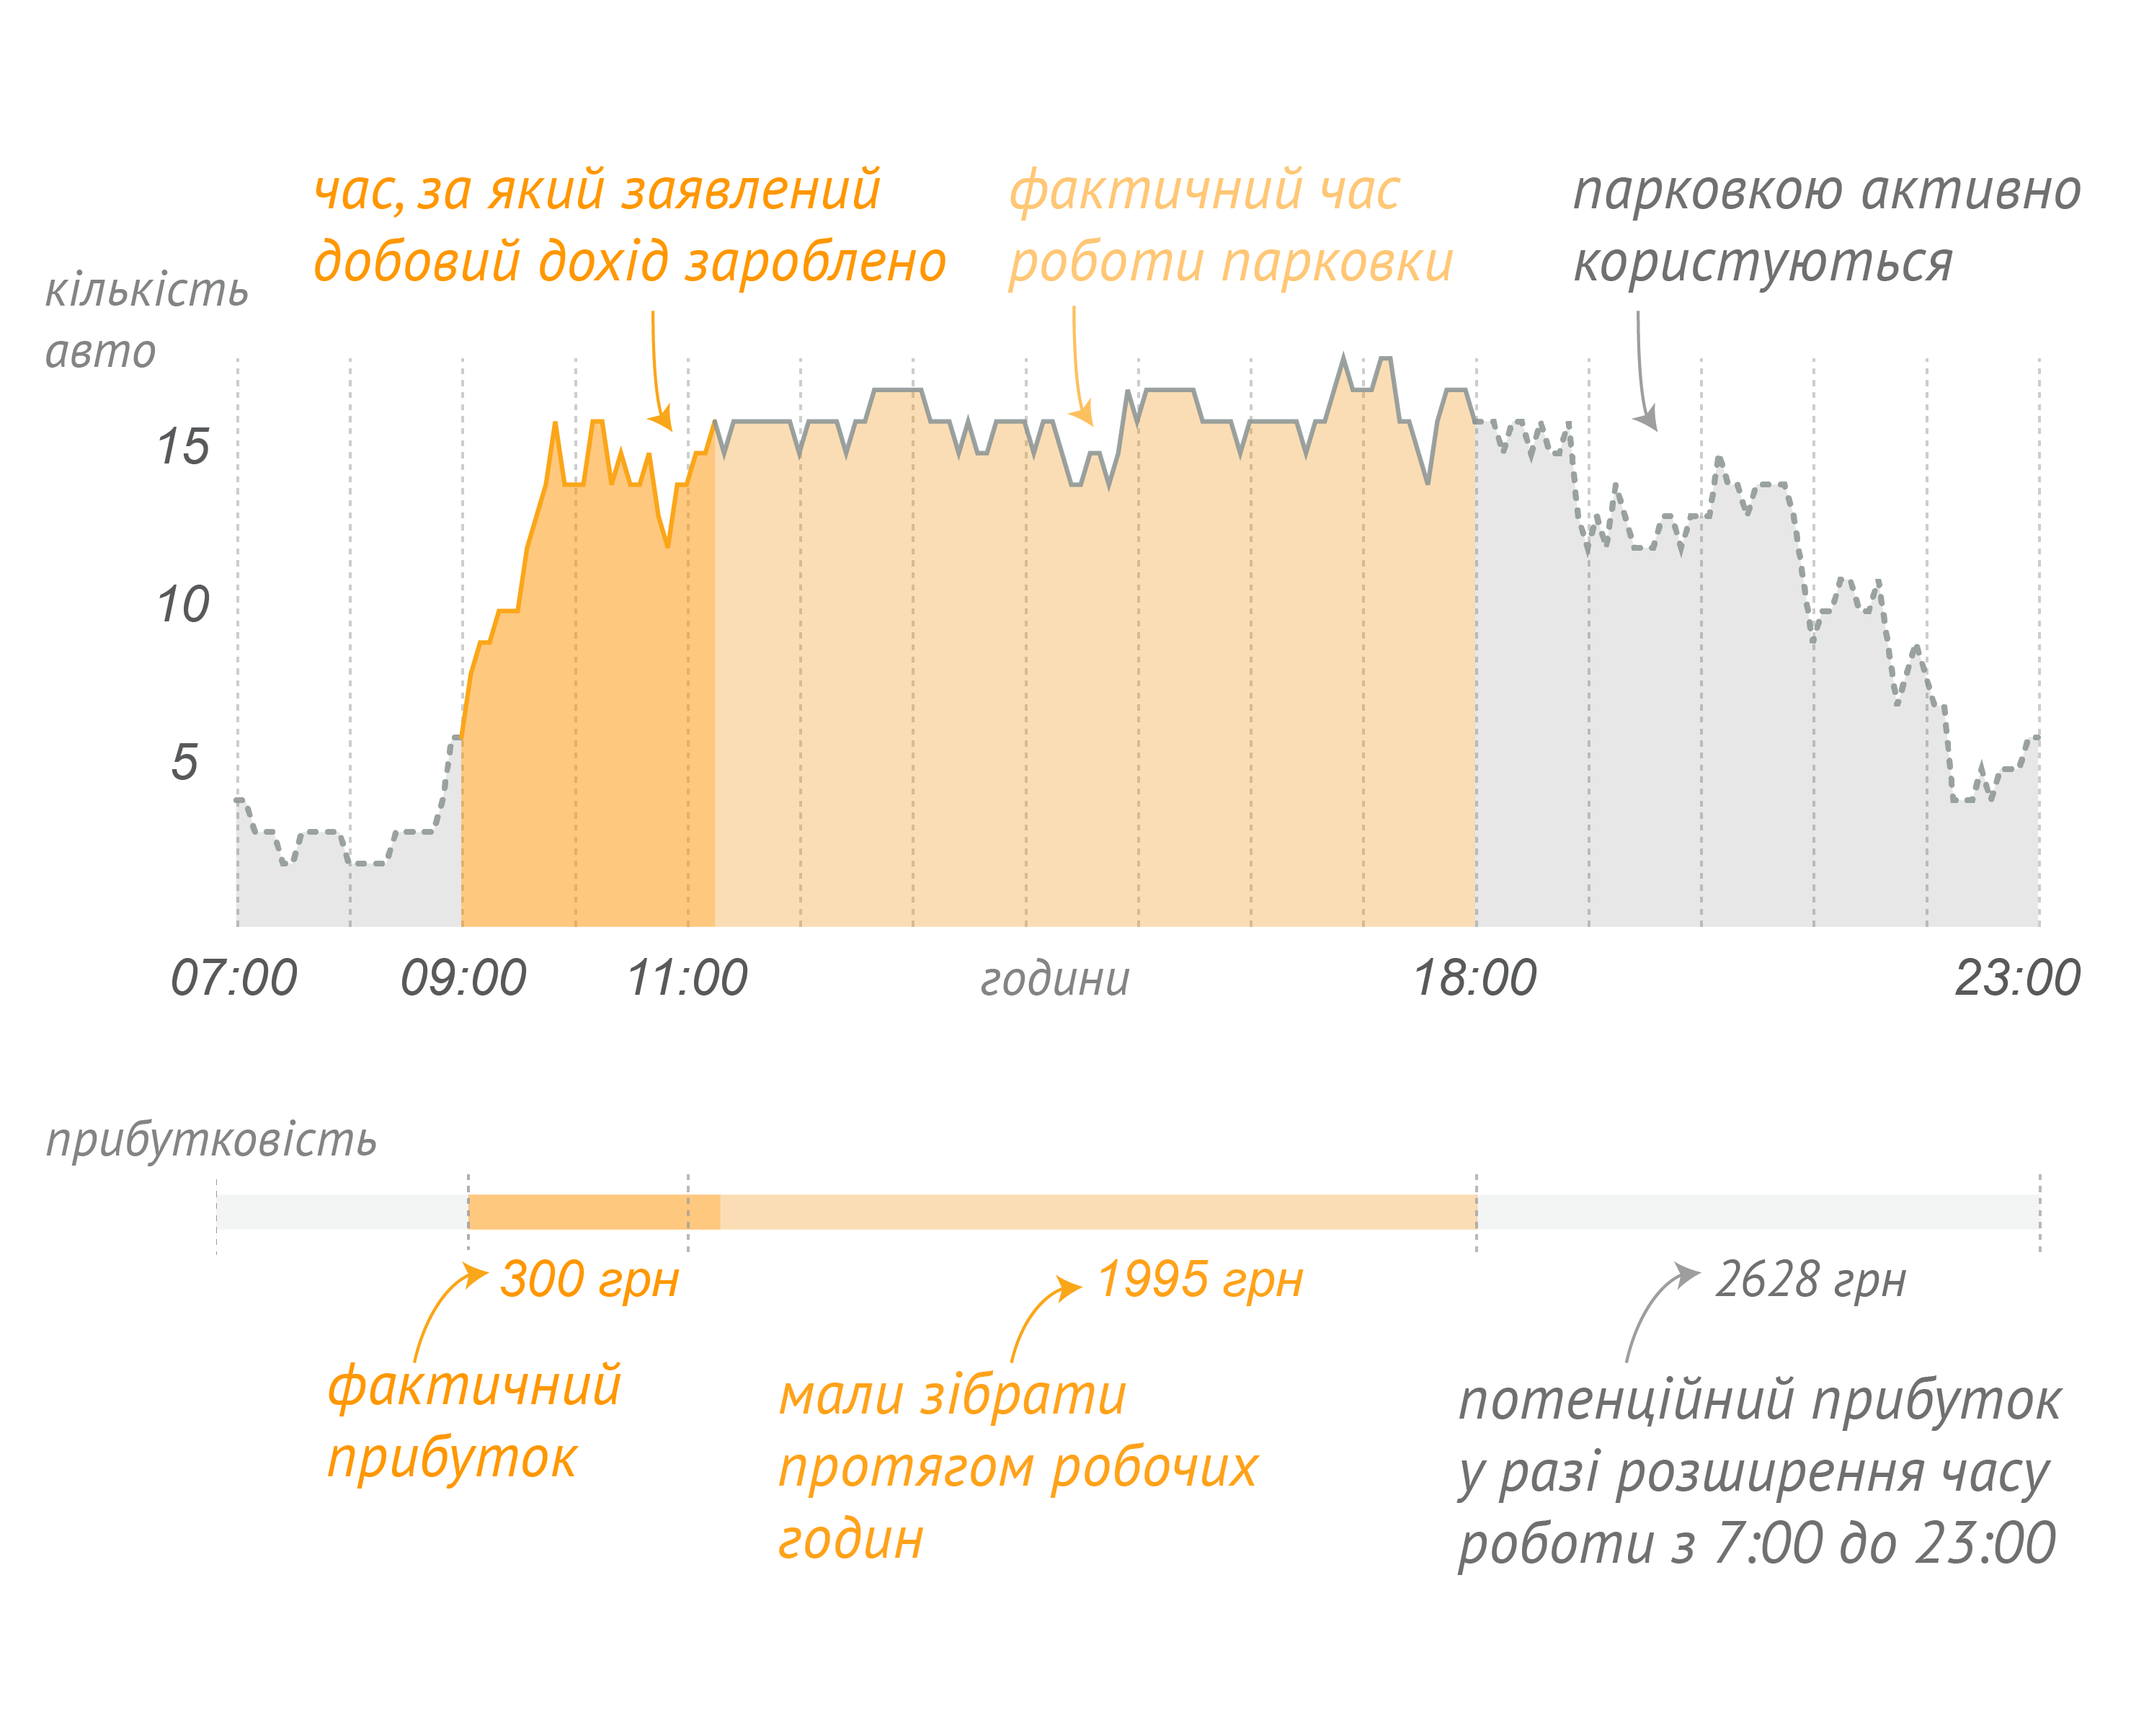
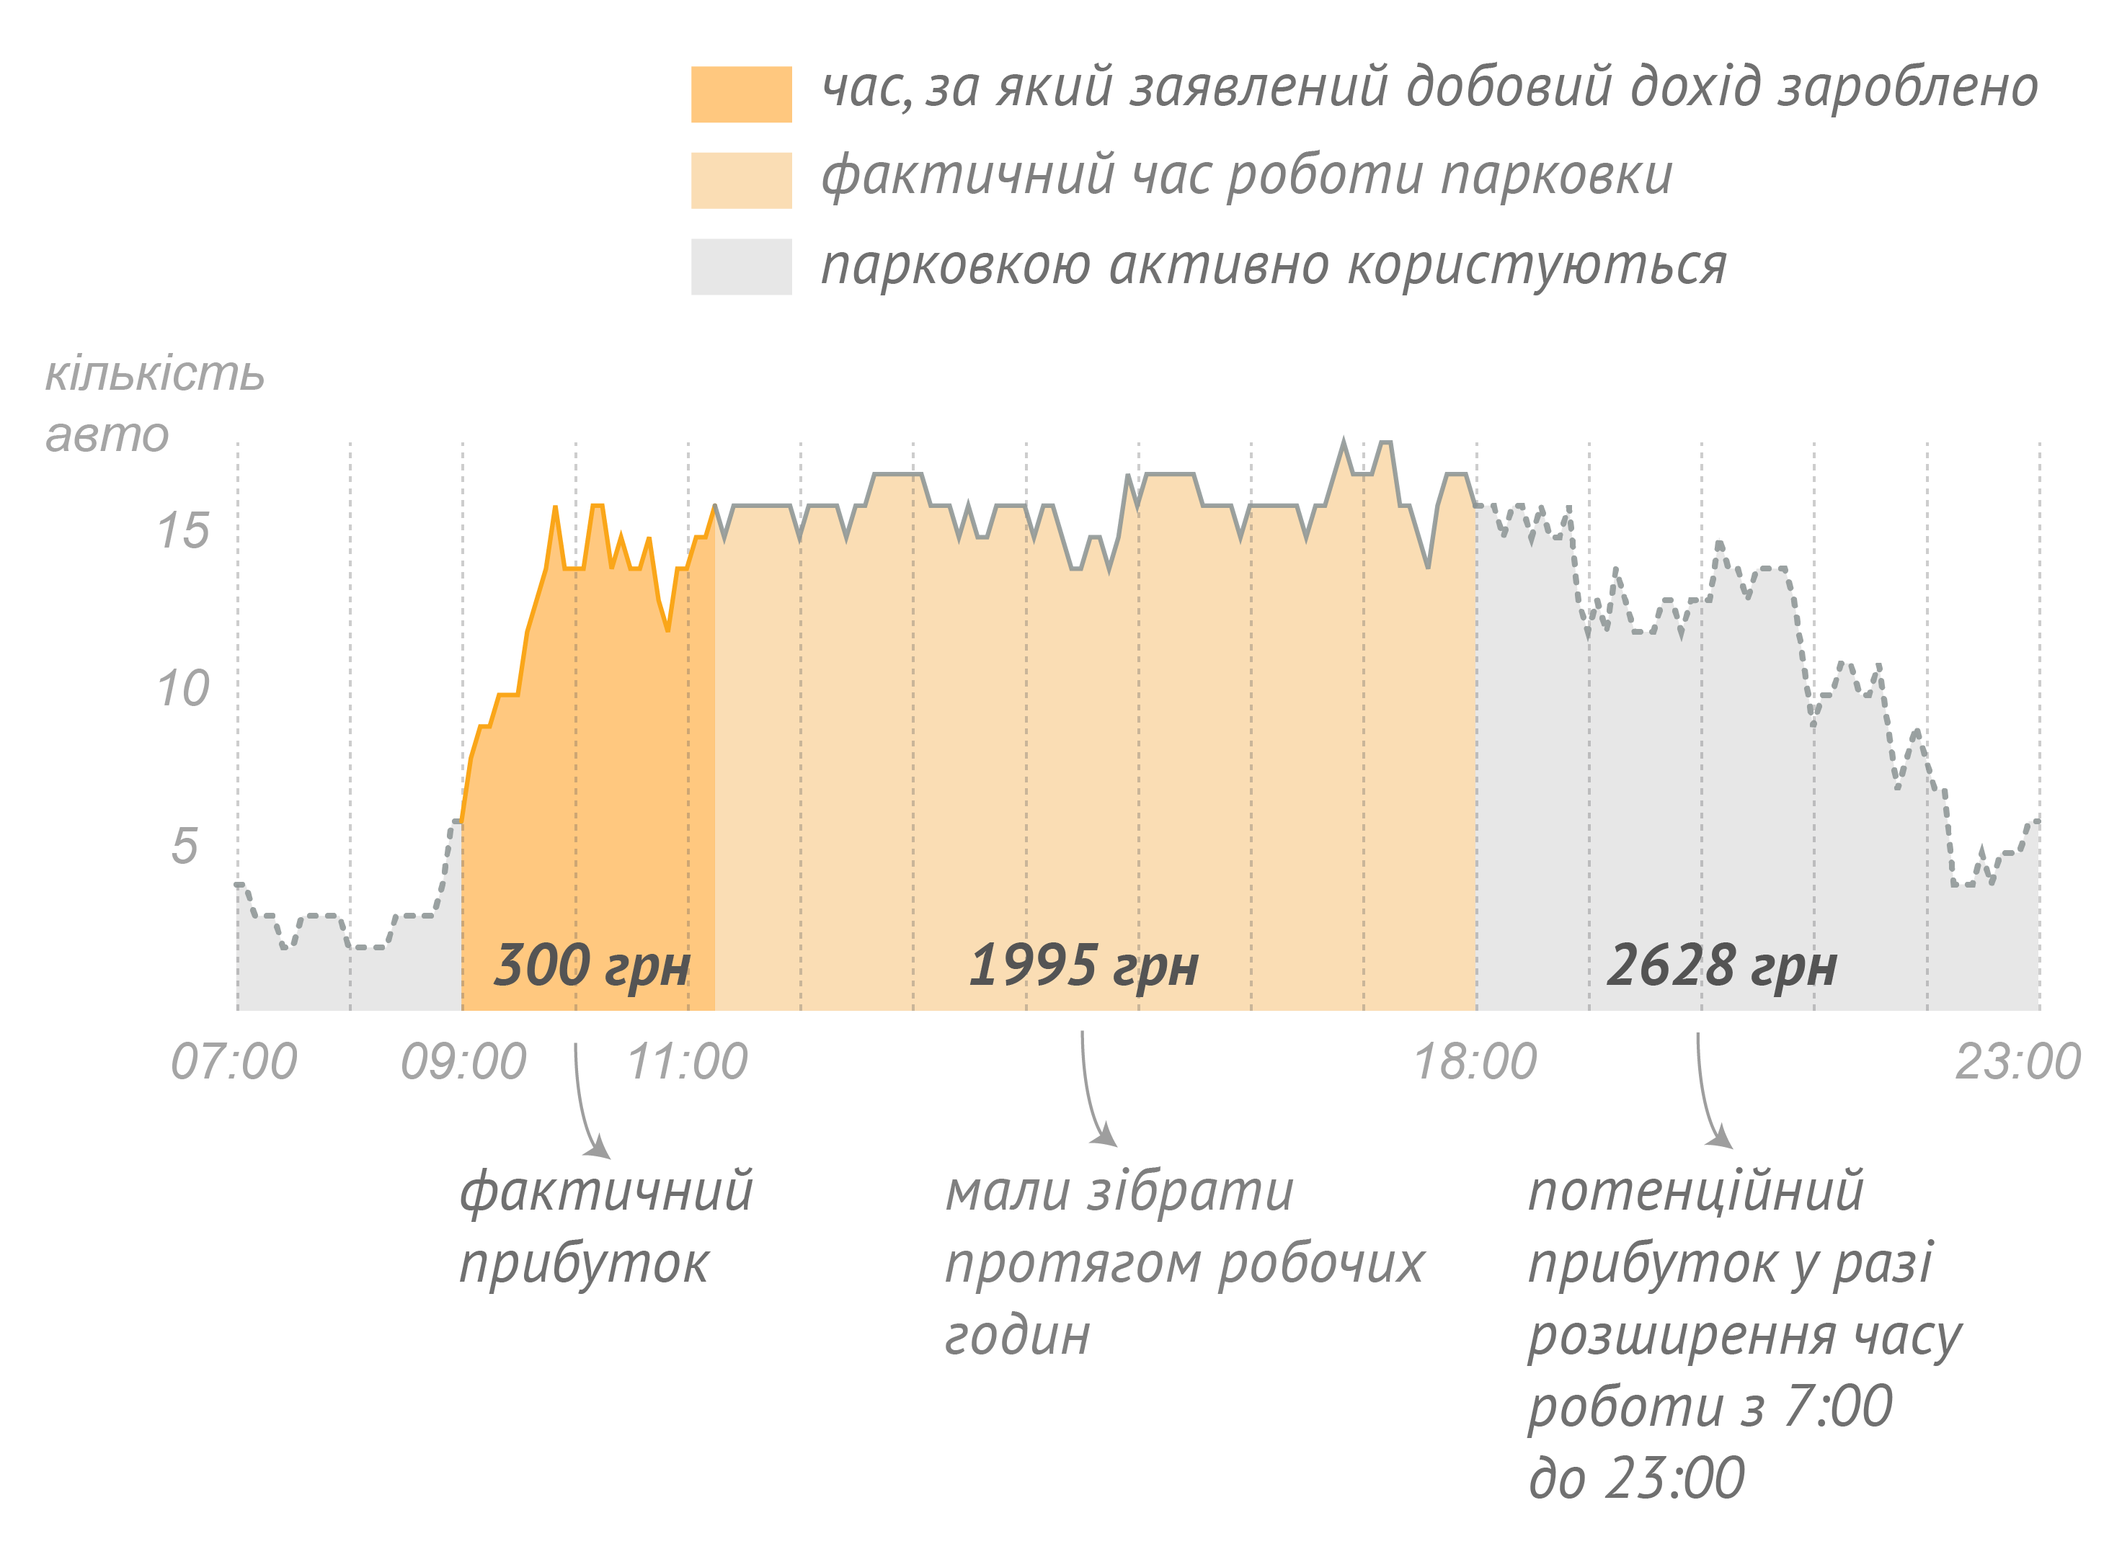
new png for mobile

diff --git a/index.html b/index.html
@@ -280,7 +280,7 @@
         <source src="data/1/gif/2017-05-24.mp4.mobile.mp4" type="video/mp4">
         <source src="data/1/gif/2017-05-24.mp4.mobile.webm" type="video/mp4">
     </video>
-    <img src="img/11-02.png" style="width:100%">
+    <img src="img/11-01.png" style="width:100%">
     <p class="caption">Парковка № 1003, другий день</p>
     <img src="img/12-01.png" style="width:100%">
     <p class="caption">Парковка № 1003, третій день</p>
